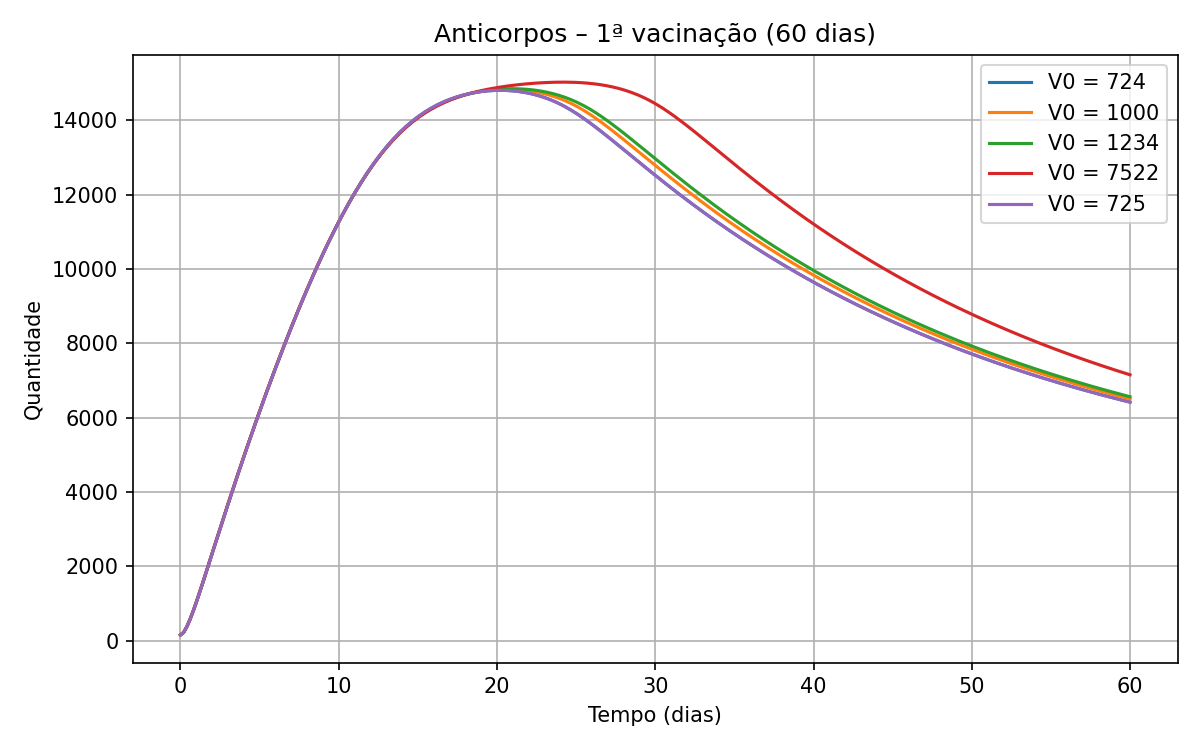
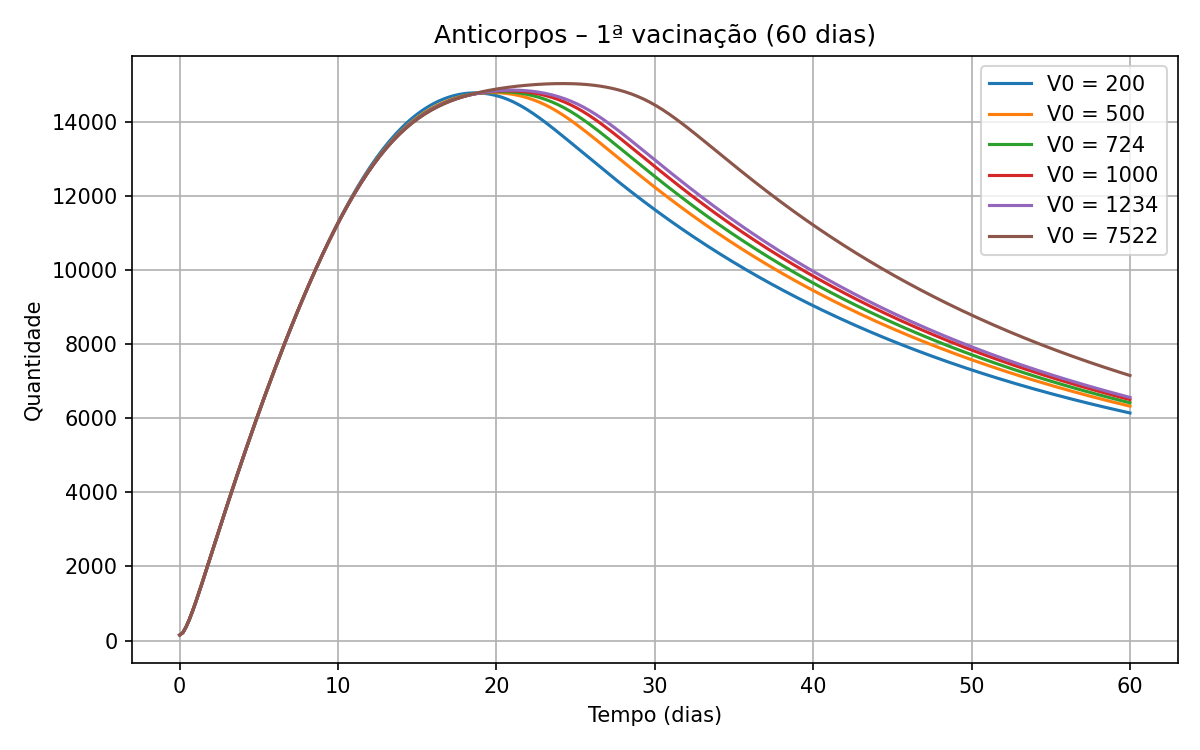
adding low number of virus on the vaccine

diff --git a/Modelo_carla.py b/Modelo_carla.py
@@ -70,8 +70,8 @@ def immune_response(y, t, p):
 
 
 
-valores_virus = [724, 1000, 1234, 7522, 725]
-cores = ['tab:blue', 'tab:orange', 'tab:green', 'tab:red', 'tab:purple']
+valores_virus = [200, 500, 724, 1000, 1234, 7522]
+cores = ['tab:blue', 'tab:orange', 'tab:green', 'tab:red', 'tab:purple', 'tab:brown']
 
 
 t1 = np.concatenate([
